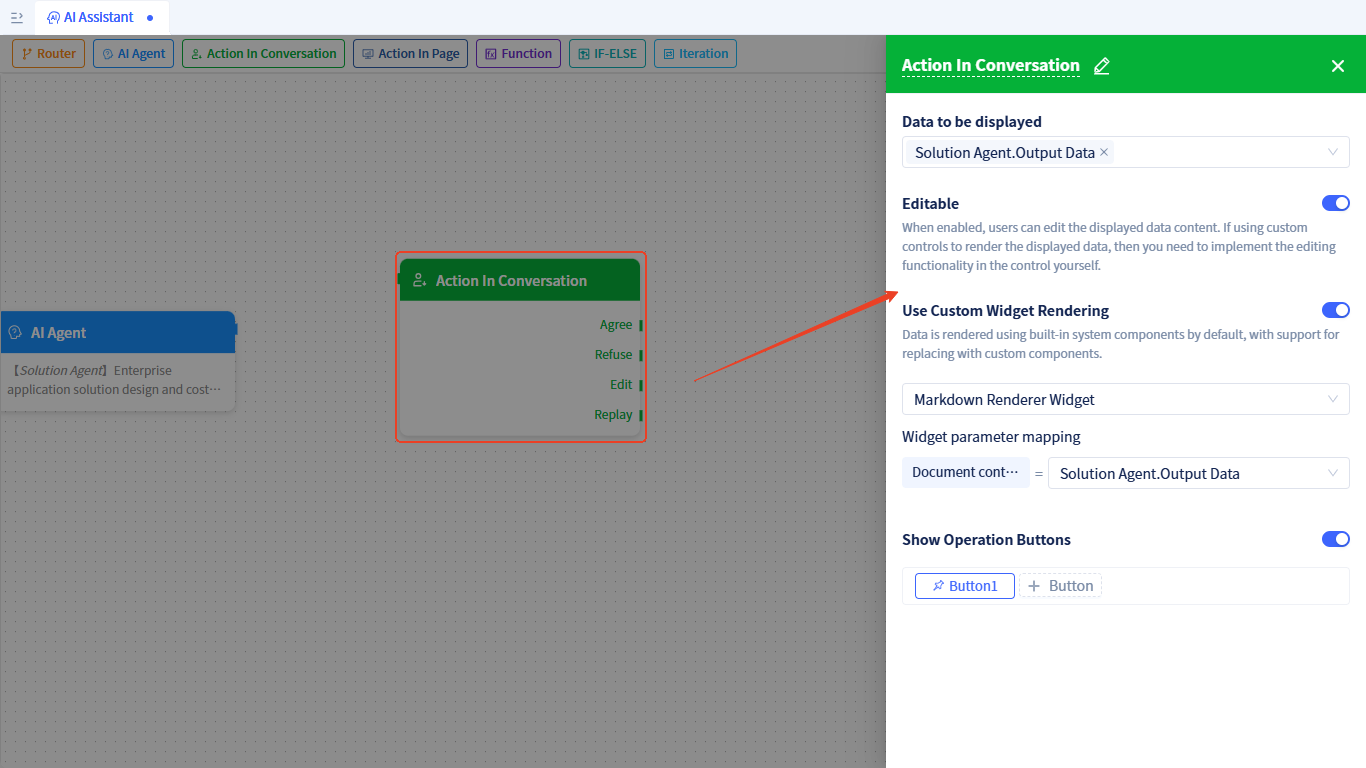
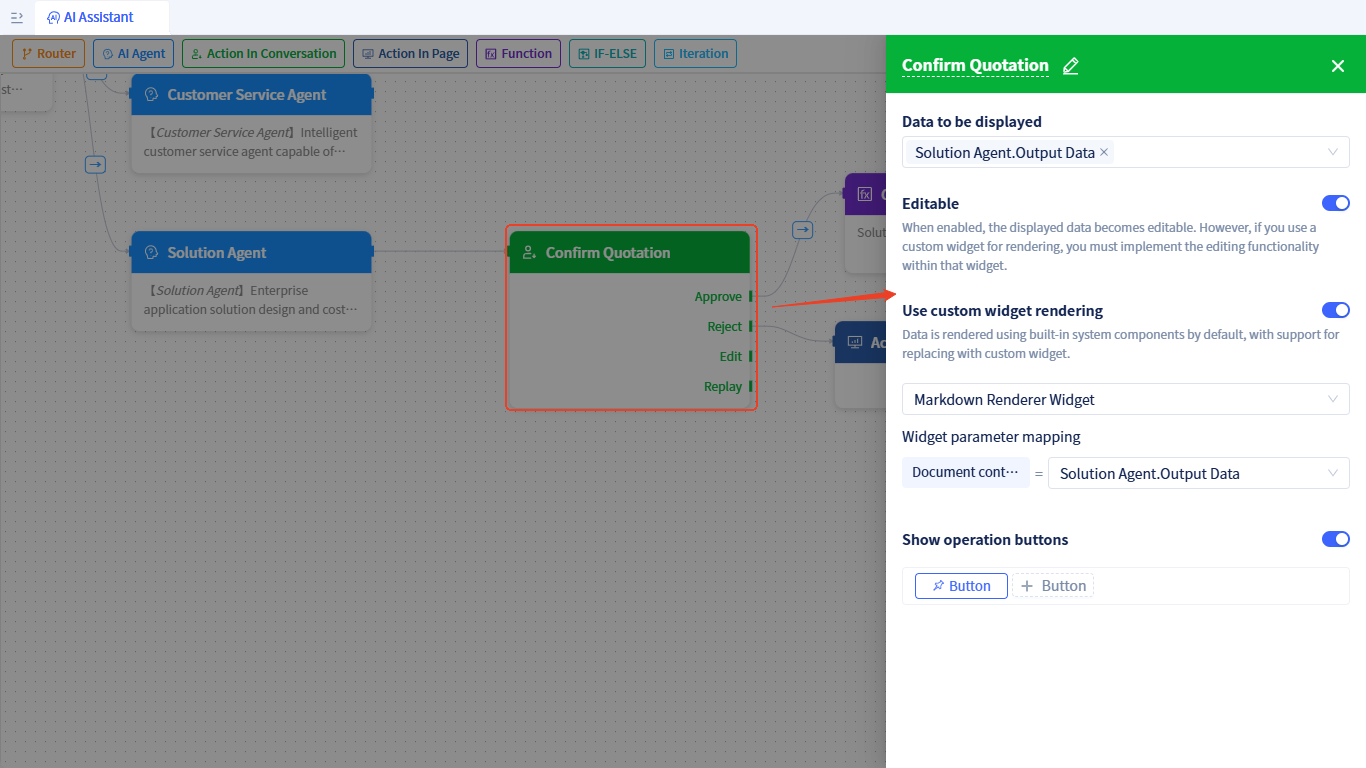
fix: 门户中使用AI助理 英文版截图

diff --git a/docs/devguide/ai-assistant/process-orchestration-node-configuration.md b/docs/devguide/ai-assistant/process-orchestration-node-configuration.md
@@ -70,8 +70,8 @@ After this node completes execution, it will store the [Agent's output results](
 ### Action in conversation {#action-in-conversation}
 
 When the task flow runs to this node, it will pause and display data in the dialog box. The flow can only continue after the user confirms the data and performs corresponding operations. If there is no next node, the flow automatically ends.
-At this node, users can perform operations such as **Approve**, **Refuse**, **Reply**, and **Edit data** (editing functionality needs to be enabled).
-During runtime, after performing **Approve**, **Refuse**, **Reply**, and **Edit data** operations, the flow will resume and trigger [dialog area human-machine interaction events](./ai-assistant-event#in-conversation-action-events).
+At this node, users can perform operations such as **Approve**, **Reject**, **Reply**, and **Edit data** (editing functionality needs to be enabled).
+During runtime, after performing **Approve**, **Reject**, **Reply**, and **Edit data** operations, the flow will resume and trigger [dialog area human-machine interaction events](./ai-assistant-event#in-conversation-action-events).
 
 #### Node configuration details {#conversation-node-configuration-details}
 - **Data to Display**: You can freely define the data content that needs user confirmation, sourced from [runtime state data](./ai-assistant-state#state-data-content).

diff --git a/docs/devguide/ai-assistant/ai-assistant-event.md b/docs/devguide/ai-assistant/ai-assistant-event.md
@@ -37,7 +37,7 @@ After binding the assistant in a page, you can subscribe to tool call events. Fo
 
 
 ### In conversation action events {#in-conversation-action-events} 
-When the process runs to a chat area human-machine interaction node, the dialog will display confirmation operation buttons such as `Agree`, `Refuse`, `Edit`, `Reply`, and custom buttons.
+When the process runs to a chat area human-machine interaction node, the dialog will display confirmation operation buttons such as `Approve`, `Reject`, `Edit`, `Reply`, and custom buttons.
 After the user performs confirmation operations or clicks custom buttons, page events will be triggered; the events carry parameters that are the data displayed on the node.
 
 After binding the assistant in a page, you can subscribe to these events. For subscription methods, see [Subscribing to Chat Area Human-Machine Interaction Events in Pages](../using-ai-in-portals-and-pages/using-ai-assistants-in-component-pages#subscribe-action-in-conversation-events)
